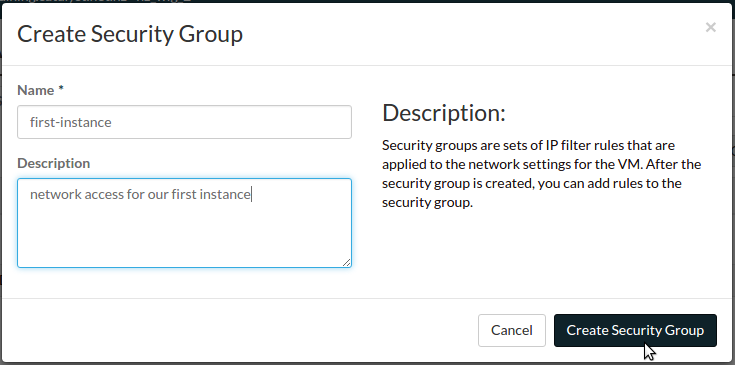
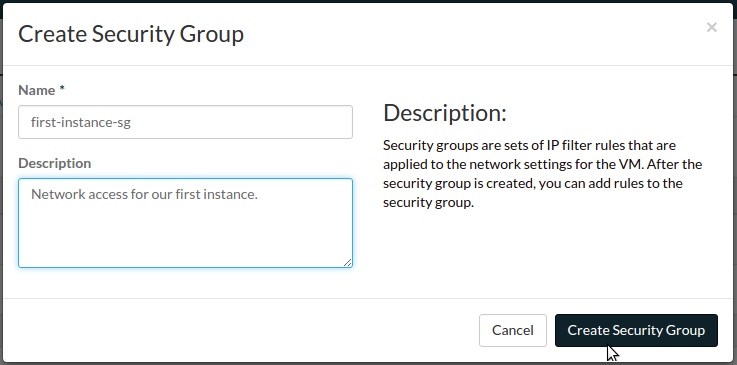
Update secruity group name in dashboard docs

diff --git a/source/first-instance.rst b/source/first-instance.rst
@@ -55,8 +55,10 @@ The requirements are:
 Catalyst operate a number of recursive DNS servers in each cloud region for
 use by Catalyst Cloud instances, free of charge. They are:
 
+.. _DNS Name Servers:
+
 +----------+------------------------------------------------+
-|  Region  | DNS Servers                                    |
+|  Region  | DNS Name Servers                               |
 +==========+================================================+
 | nz-por-1 | 202.78.247.197, 202.78.247.198, 202.78.247.199 |
 +----------+------------------------------------------------+
@@ -184,7 +186,7 @@ notation and click "Next":
    :align: center
 
 Specify additional attributes for the subnet including enabling DHCP,
-specifying the DNS servers for your region and optionally defining an
+specifying the `DNS Name Servers`_ for your region and optionally defining an
 allocation pool:
 
 .. image:: _static/fi-network-detail.png
@@ -296,7 +298,7 @@ Select the ``private-net`` network from the list and click "Next":
 .. image:: _static/fi-launch-instance-networks.png
    :align: center
 
-Select the ``first-instance`` security group from the list and click "Next":
+Select the ``first-instance-sg`` security group from the list and click "Next":
 
 .. image:: _static/fi-launch-instance-security-groups.png
    :align: center
@@ -395,8 +397,8 @@ Lets create a router and network:
  | tenant_id      | <TENANT_ID>                          |
  +----------------+--------------------------------------+
 
-Now lets set our nameservers and create a subnet of the network we have just
-created:
+Now lets set our `DNS Name Servers`_ and create a subnet of the network we have
+just created:
 
 .. code-block:: bash
 
